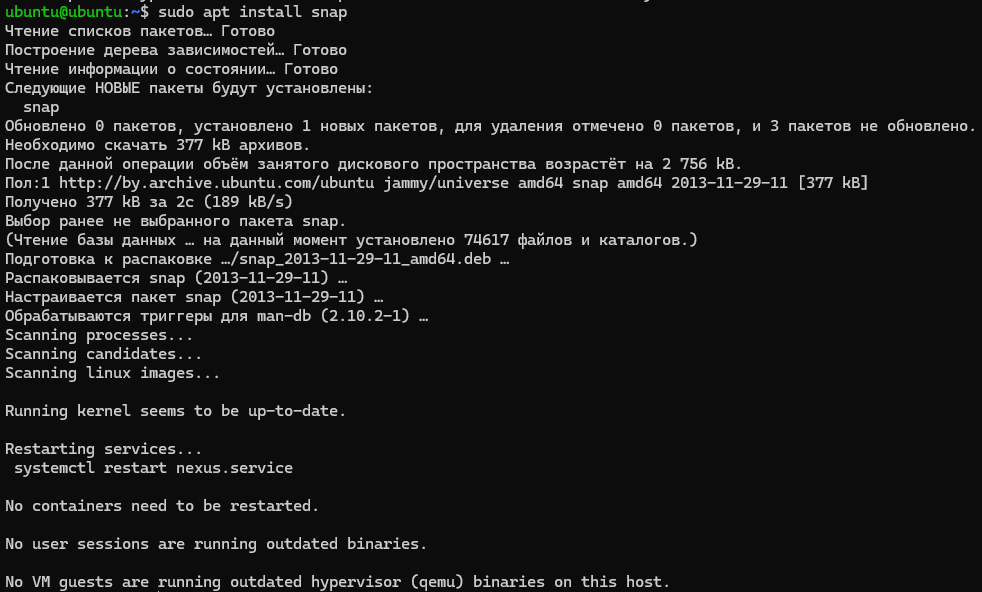
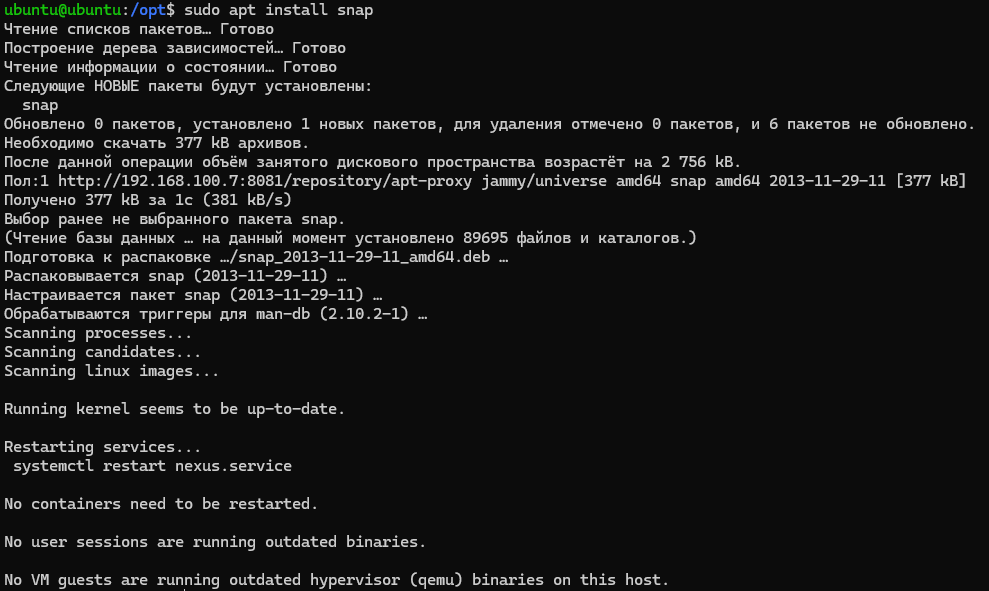
Fixed 11 task in Homework 9

diff --git a/HW_9/README.md b/HW_9/README.md
@@ -86,8 +86,8 @@ cat /opt/sonatype-work/nexus3/admin.password # Достать пароль admin
 
 ## 11. Выполнить установку пакета ```snap``` и убедиться, что на proxy репозитории в Nexus появились пакеты
 
-Установку ```snap``` произвел, однако nexus_proxy изменений не было. Может я что-то настроил неправильно
-
 ![task11](screenshots/task11.png)
+
+![task11_1](screenshots/task11_1.png)
 
 ## 12. (**) На основании шагов из предыдущих пунктов создать DEB/RPM пакет для установки Nexus и загрузить его в Nexus
